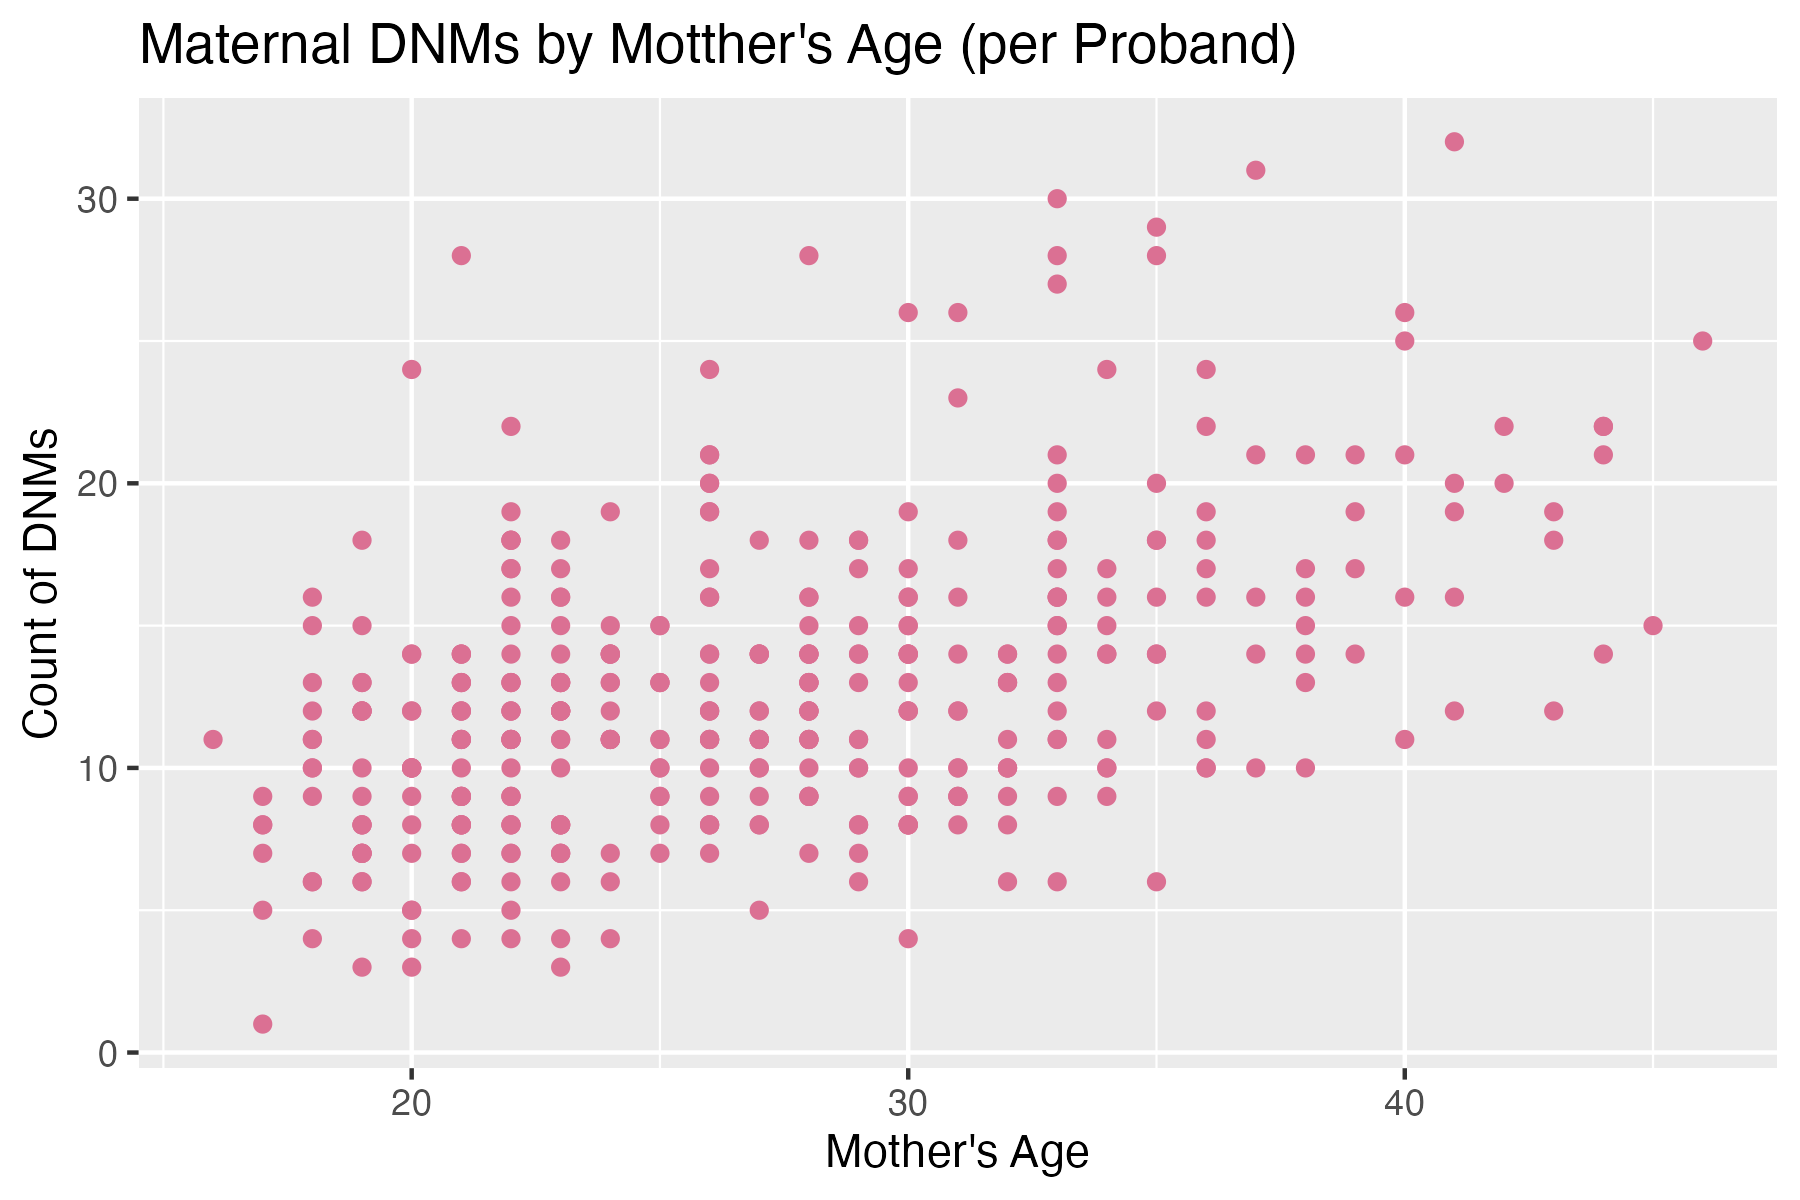
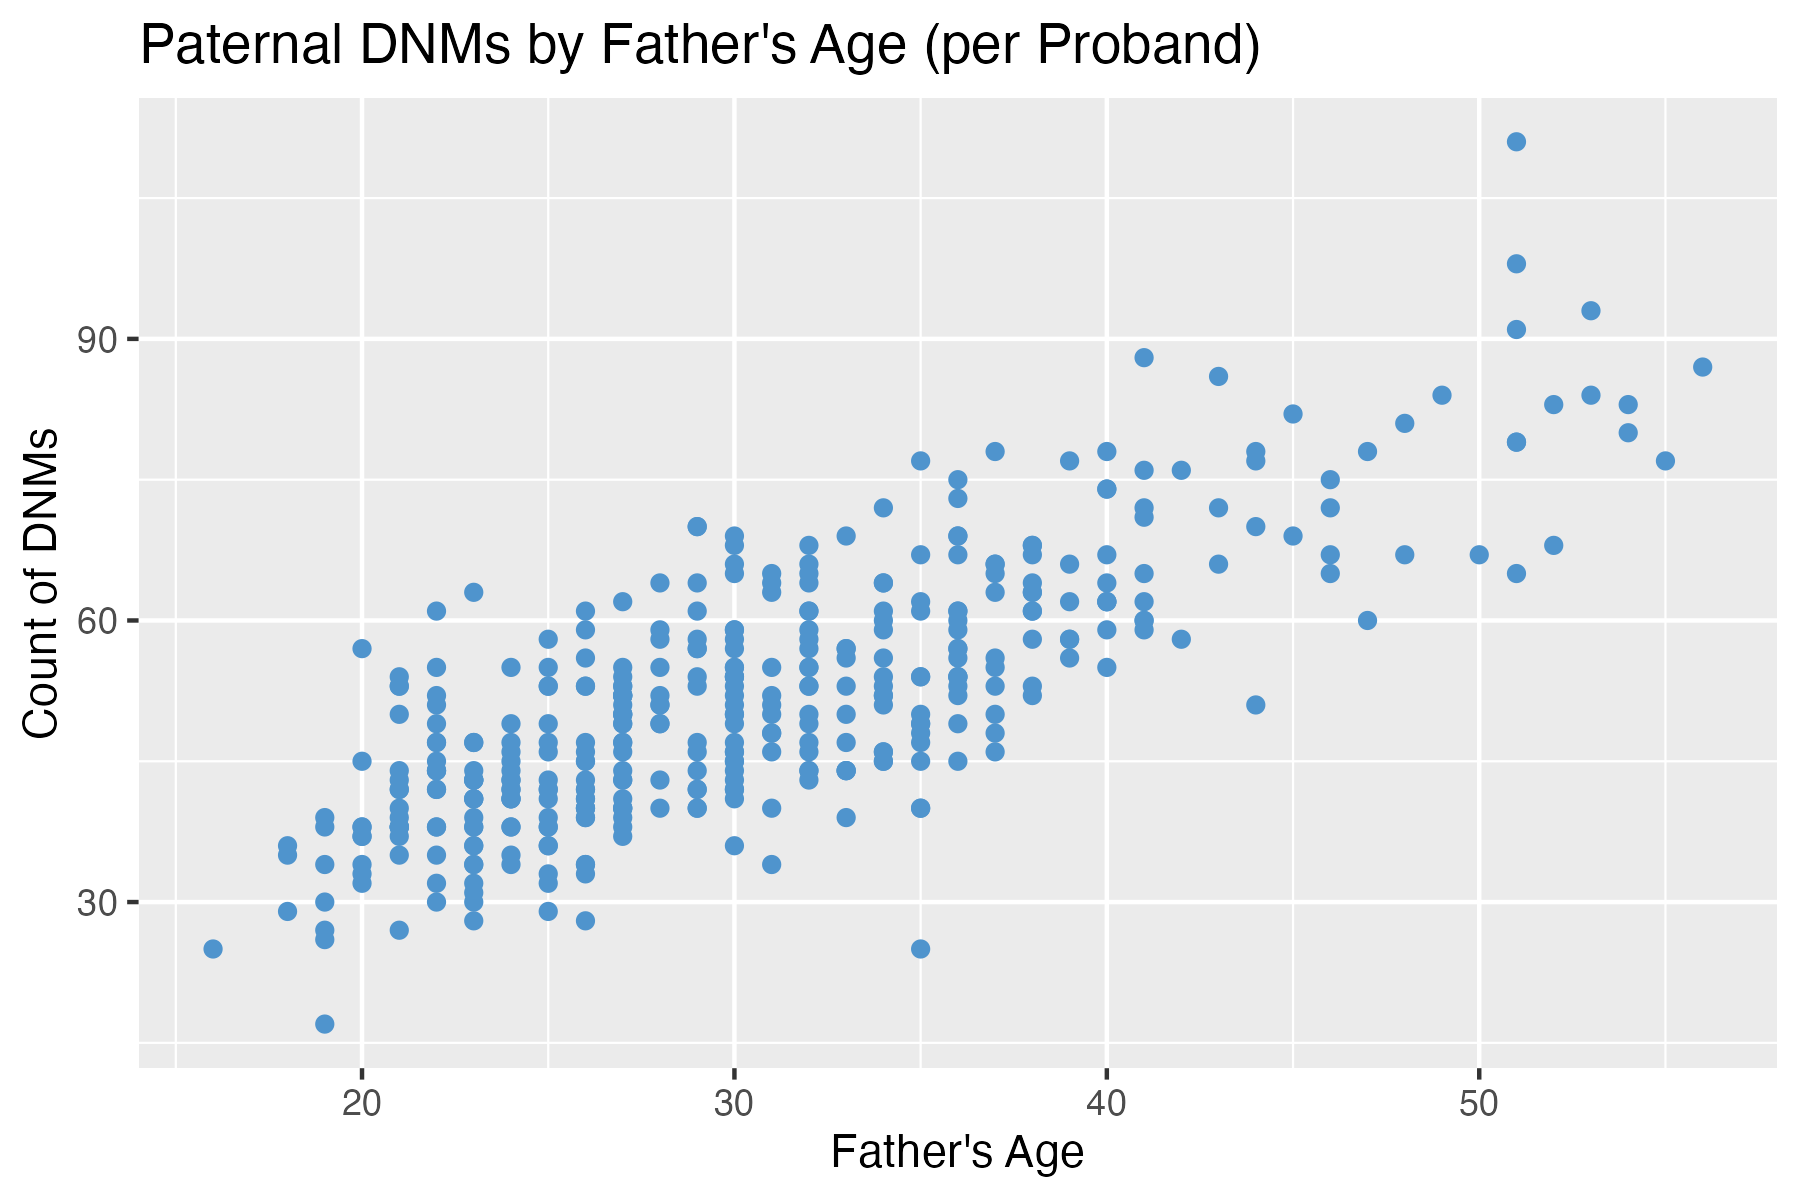
week 5

diff --git a/week5/README.md b/week5/README.md
@@ -1,0 +1,24 @@
+#2.2 
+The slope of this relationship is 0.37757, which means that for additional year of the mother's age the number of de novo mutations are expected to increase by 0.37757. This does seem to match my plot and the p-value is under 0.05 so this relationship does seem to be significant. 
+
+#2.3 
+The slope of this relationship is 1.35384, which means that for additional year of the father's age the number of de novo mutations are expected to increase by 1.35384. This does seem to match my plot and the p-value is under 0.05 so this relationship does seem to be significant. 
+
+#2.4 
+paternal_model <- lm(data = counts_pat, formula = count ~ 1 + Father_age )
+new_data <- data.frame(Father_age = 50.5)
+predict(paternal_model, newdata = new_data)
+--> 78.69546 
+
+#2.6
+This result indicates that fathers contribute about 39 more DNMs than mothers on average and this does seem to match my plot. 
+The relationship seems to be highly significant because the p-value is less than 2.2 X 10^-16. This represents the fact that the probability that this difference in contribution to DNMs is by random chance is close to zero.
+The intercept output from the lm() model is 39.23, which again represents the average difference in DNMs between fathers and mothers. This is the same result of the paired t-test and confirms that the average DNM contribution from fathers is significantly higher.
+
+#3.1 
+I chose to look at the accidents on April 20th dataset, from a preliminary look at the data it seems that on average there are less accidents on 04/20 than on other days (ex3_a.png) and the average number of fatalities per day per year seems to be decreasing overall (ex3_b.png). 
+
+I tested if fatalities on April 20 are lower than on other days because I found that finding pretty strange. The average number of fatalities on days other than 04/20 was approximately 145 and the holiday seems to have 90 fewer fatalities on average. This difference also seems to be statistically significant (p < 2e-16). 
+
+These results correspond well to the chart I generated earlier and this data seems to provide evidence that there might be fewer car accident related fatalities on the 20th of April compared to other days. 
+
